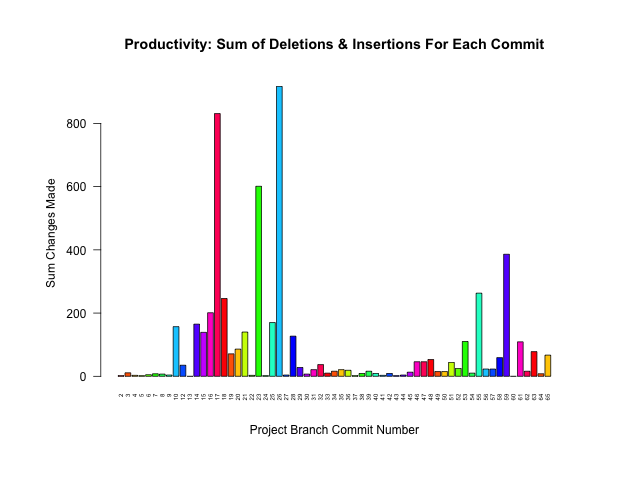
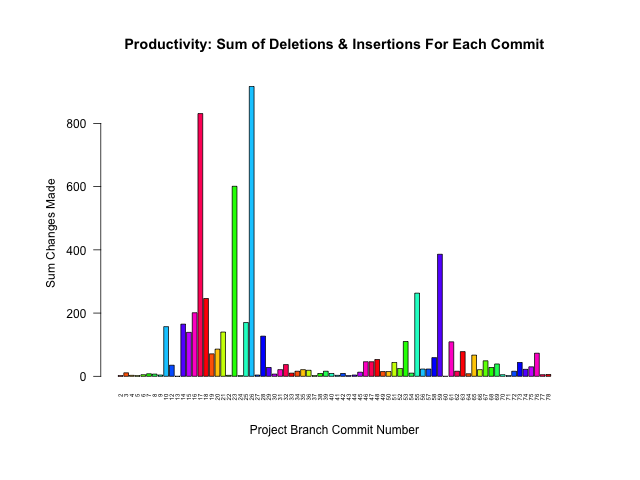
COMMIT #176

Changed region(s): [[0.1875, 0.1875, 0.875, 0.8438]]

diff --git a/README.md b/README.md
@@ -17,9 +17,9 @@ ProjectName::BranchName.data
 
 Project Name | Last Updated | # Commits | # Branches | Branches Merged
 :---|:---:|:---:|:---:|:---:
-[minishell](https://github.com/pierremigeon/minishell)                                              |  2023-05-20  |  75   |  8  |  75%   (6/8)
+[minishell](https://github.com/pierremigeon/minishell)                                              |  2023-05-20  |  78   |  8  |  88%   (7/8)
+[commit_tracker](https://github.com/pierremigeon/commit_tracker)                                    |  2023-05-20  |  175  |  1  |  100%  (1/1)
 [learn_some_C.Plus.Plus](https://github.com/pierremigeon/learn_some_C.Plus.Plus)                    |  2023-05-19  |  18   |  1  |  100%  (1/1)
-[commit_tracker](https://github.com/pierremigeon/commit_tracker)                                    |  2023-05-19  |  174  |  1  |  100%  (1/1)
 [libft](https://github.com/pierremigeon/libft)                                                      |  2023-05-18  |  25   |  2  |  50%   (1/2)
 [FASTQ_examiner](https://github.com/pierremigeon/FASTQ_examiner)                                    |  2023-05-12  |  68   |  4  |  50%   (2/4)
 [ft_printf](https://github.com/pierremigeon/ft_printf)                                              |  2023-01-27  |  36   |  2  |  100%  (2/2)

diff --git a/minishell_project/readme.md b/minishell_project/readme.md
@@ -1,1 +1,1 @@
-![test_image](https://github.com/pierremigeon/commit_tracker/blob/master/minishell_project/minishell::history.data_sum_barplot.png)
+![test_image](https://github.com/pierremigeon/commit_tracker/blob/master/minishell_project/minishell::master.data_sum_barplot.png)
